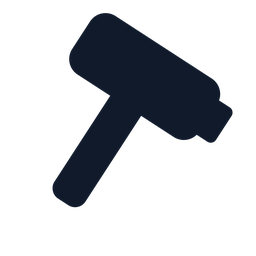
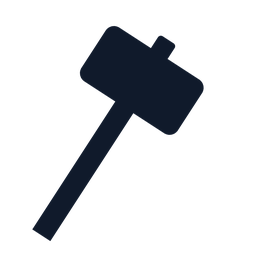
BUILD mallet redrawn to the reference's measured proportions, through-handle stub; swing every 1.2 s

Changed region(s): [[0.125, 0.0312, 0.9062, 0.9375]]

diff --git a/src/ui.tsx b/src/ui.tsx
@@ -526,7 +526,8 @@ const DesktopControls = () => {
 */
 /** The mallet's two swing poses, in the active icon family, and the beat they play on. */
 const BUILD_FRAMES: [string, string] = [`${ico('build')}-raised`, `${ico('build')}-mid`]
-const BUILD_SWING_MS = 800
+// 800 was noise on the board (owner, 3 Sep); a beat and a fifth is the first value that was not.
+const BUILD_SWING_MS = 1200
 
 const POUCE_GROS = THUMB.big
 const POUCE = THUMB.small

diff --git a/tools/ui/build-mallet-icon.py b/tools/ui/build-mallet-icon.py
@@ -1,21 +1,24 @@
 """
 The BUILD glyph: a wooden mallet, in one mass, with two swing frames.
 
-Drawn after the owner's reference (a line icon of a mallet, 3 Sep): a wide rounded head
-with a small cap on its far end and a long handle running down-left, so the head sits
-top-right. Nothing is drawn inside the shape; at 56 px on a phone only the silhouette
-survives, and this one is the silhouette everybody reads as "build". The earlier glyphs
-came from game-icons and carried claws, nails and shading that turned to mud at that size.
+Drawn after the owner's reference (a line icon of a mallet, 3 Sep), measured rather than
+remembered: the head is a rounded block about 1.8 times as long as it is thick, set across
+the handle; the handle is a straight bar, 0.18 of the head's length wide and 1.3 times as
+long as the head, passing THROUGH the head and showing a short square stub on the far side;
+the grip end is cut flat. The whole tool leans so the head sits top-right and the handle
+runs down-left. Nothing is drawn inside the shape: at 56 px on a phone only the silhouette
+survives. A first pass kept an older hammer and hung a cap on the head's END, which is not
+in the reference; this one follows it.
 
 Three poses, rotated about the grip end: raised (22 degrees), halfway (9) and struck (0).
-The struck pose is the icon at rest; the other two are shown for 80 and 60 ms when the
-contextual button offers BUILD, once per period, see `Pouce` in src/client/ui-kit.tsx.
+The struck pose is the icon at rest; the other two are shown briefly at the start of every
+period when the contextual button offers BUILD, see `Pouce` in src/client/ui-kit.tsx.
 
 Two families, as for every verb (src/client/icones.ts): `icon-*` white, `encre-*` navy.
 Run: python3 tools/ui/build-mallet-icon.py
 """
 import os
-from PIL import Image, ImageDraw
+from PIL import Image, ImageChops, ImageDraw
 
 HERE = os.path.dirname(os.path.abspath(__file__))
 OUT = os.path.abspath(os.path.join(HERE, '../../assets/ui'))
@@ -26,31 +29,51 @@ NAVY = (16, 26, 43, 255)
 TILT = -42          # degrees; the head top-right, the handle down-left
 POSES = {'raised': 22, 'mid': 9, 'struck': 0}
 
+# The upright design, in a 100 x 150 box (x, y), head on top, handle straight down.
+HEAD = (15, 14, 85, 53)       # 70 long, 39 thick
+STUB = (44, 4, 56, 18)        # the handle's end showing through the top of the head
+HANDLE = (43.5, 40, 56.5, 146)  # 13 wide, to a flat grip end
+PIVOT = (50, 144)             # the swing turns about the grip end
 
-def mallet(size, swing_deg, colour, margin=0.10):
-    big = size * SS
-    inner = big * (1 - 2 * margin)
-    k = inner / 100.0
-    off = big * margin
 
-    def u(v):
-        return off + v * k
-
-    layer = Image.new('RGBA', (big, big), (0, 0, 0, 0))
+def mallet(size, swing_deg, colour, margin=0.06):
+    """The mallet in a size x size image, drawn big, swung, tilted, then fitted."""
+    big = 150 * SS
+    layer = Image.new('RGBA', (big * 2, big * 2), (0, 0, 0, 0))
     d = ImageDraw.Draw(layer)
-    # Upright first: the head on top, the handle straight down, all in a 100-unit box.
-    d.rounded_rectangle([u(13), u(8), u(87), u(42)], radius=u(9) - off, fill=colour)   # head
-    d.rounded_rectangle([u(84), u(15), u(96), u(35)], radius=u(3) - off, fill=colour)  # cap
-    d.rounded_rectangle([u(41), u(30), u(59), u(98)], radius=u(6) - off, fill=colour)  # handle
+    ox, oy = big / 2 + 25 * SS, big / 2  # centre the 100 x 150 design in the 300 x 300 canvas
+
+    def box(r):
+        return [ox + r[0] * SS, oy + r[1] * SS, ox + r[2] * SS, oy + r[3] * SS]
+
+    d.rounded_rectangle(box(HEAD), radius=6 * SS, fill=colour)
+    d.rounded_rectangle(box(STUB), radius=2 * SS, fill=colour)
+    d.rectangle(box(HANDLE), fill=colour)
+    pivot = (ox + PIVOT[0] * SS, oy + PIVOT[1] * SS)
     if swing_deg:
-        layer = layer.rotate(swing_deg, resample=Image.BICUBIC, center=(u(50), u(94)))
-    layer = layer.rotate(TILT, resample=Image.BICUBIC, center=(big / 2, big / 2))
-    return layer.resize((size, size), Image.LANCZOS)
+        layer = layer.rotate(swing_deg, resample=Image.BICUBIC, center=pivot)
+    layer = layer.rotate(TILT, resample=Image.BICUBIC, center=(big, big))
+    # Fit the struck pose's footprint, so the three frames share one frame of reference.
+    return layer, pivot
+
+
+def framed(size, colour):
+    """All three poses cropped to the same box: the union of their footprints, plus margin."""
+    layers = {pose: mallet(size, swing, colour)[0] for pose, swing in POSES.items()}
+    union = Image.new('L', layers['struck'].size, 0)
+    for im in layers.values():
+        union = ImageChops.lighter(union, im.split()[3])
+    bbox = union.getbbox()
+    side = max(bbox[2] - bbox[0], bbox[3] - bbox[1])
+    cx, cy = (bbox[0] + bbox[2]) / 2, (bbox[1] + bbox[3]) / 2
+    half = side / 2 * (1 + 0.12)
+    crop = (int(cx - half), int(cy - half), int(cx + half), int(cy + half))
+    return {pose: im.crop(crop).resize((size, size), Image.LANCZOS) for pose, im in layers.items()}
 
 
 if __name__ == '__main__':
     for family, colour in (('icon', WHITE), ('encre', NAVY)):
-        for pose, swing in POSES.items():
+        for pose, im in framed(N, colour).items():
             name = f'{family}-build.png' if pose == 'struck' else f'{family}-build-{pose}.png'
-            mallet(N, swing, colour).save(os.path.join(OUT, name), optimize=True)
+            im.save(os.path.join(OUT, name), optimize=True)
             print(f'wrote {name}')
